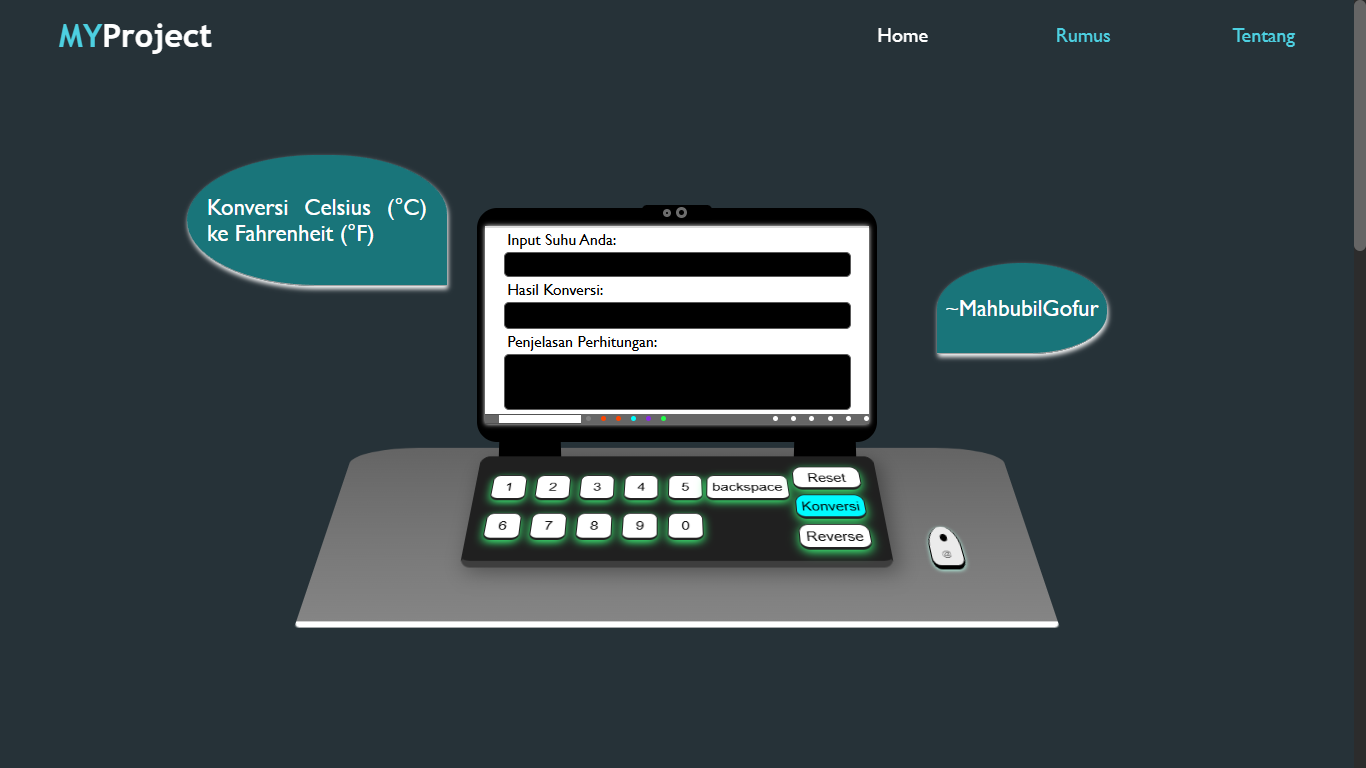
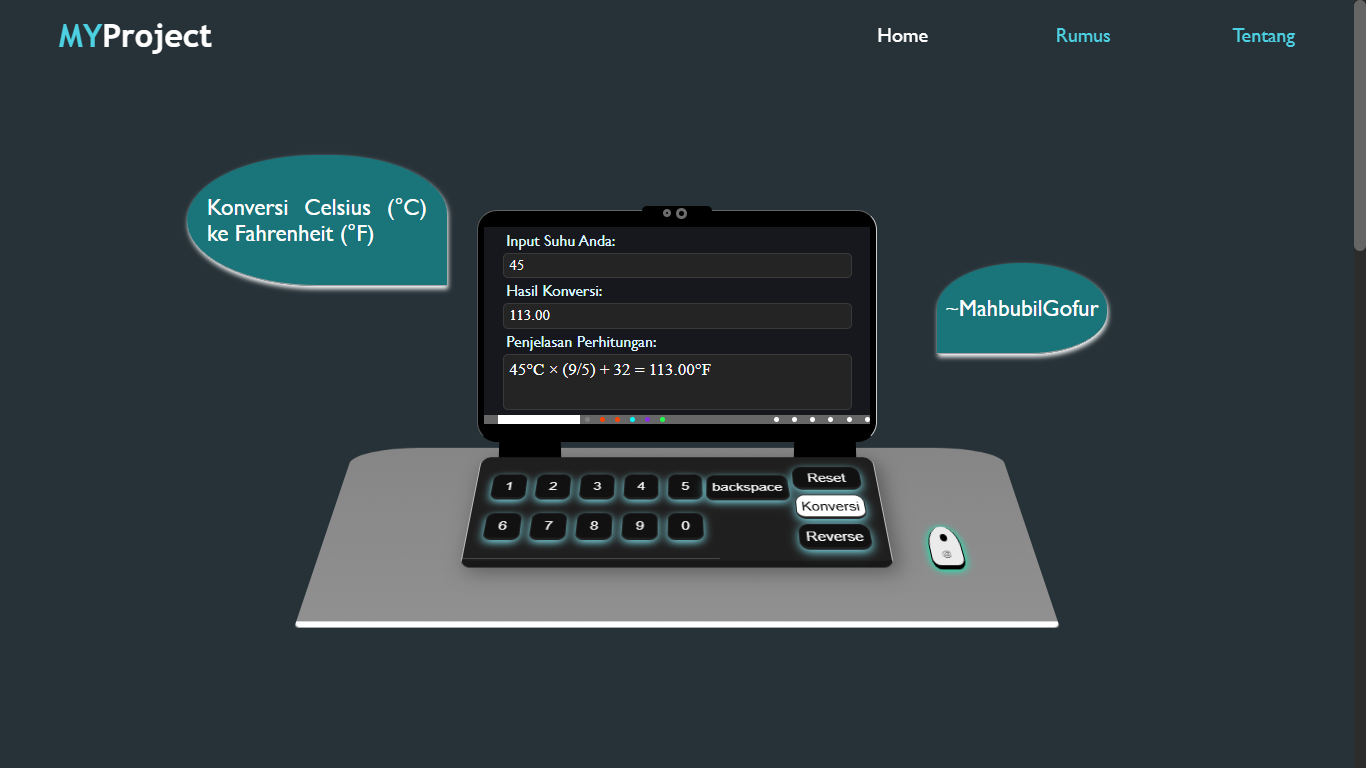
save

Changed region(s): [[0.246, 0.25, 0.7687, 0.75]]

diff --git a/css/style.css b/css/style.css
@@ -263,8 +263,7 @@ main {
   width: 700px;
   height: 200px;
   border-bottom: 6px solid #ffffff;
-  background-color: #a3a3a3;
-  background: linear-gradient(to bottom, #646464, #858585);
+  background: linear-gradient(to bottom, #868686, #909090);
   transform: perspective(600px) rotateX(30deg);
   -webkit-transform: perspective(600px) rotateX(30deg);
   -moz-transform: perspective(600px) rotateX(30deg);
@@ -384,12 +383,12 @@ main {
   justify-content: center;
   align-items: center;
   background-color: rgb(0, 0, 0);
-  border: 2px solid #000000;
   border-radius: 20px;
-  -webkit-border-radius: 20px;
-  -moz-border-radius: 20px;
-  -ms-border-radius: 20px;
-  -o-border-radius: 20px;
+  border: 3px solid rgb(255, 255, 255);
+  border-top: 1px solid rgb(100, 100, 100);
+  border-left: 1px solid rgb(88, 88, 88);
+  border-right: 1px solid rgb(206, 206, 206);
+  border-bottom: 1px solid black;
 }
 
 .bg1-content {
@@ -399,8 +398,7 @@ main {
   justify-content: center;
   align-items: center;
   flex-direction: column;
-  box-shadow: 0 0 5px rgb(255, 255, 255);
-  background-color: rgb(255, 255, 255);
+  background-color: rgb(23, 24, 29);
 }
 /* // */
 /* bg2 */
@@ -416,9 +414,10 @@ main {
   align-items: center;
   border-radius: 10px;
   box-shadow: 5px 5px 20px rgba(0, 0, 0, 0.338);
-  border: 1px solid #202020;
-  border-bottom: 7px solid #3e3e3e;
-  background-color: #202020;
+  border-left: 1px solid #bdbdbd;
+  border-right: 1px solid #bdbdbd;
+  border-bottom: 7px solid #181818;
+  background-color: #201f1f;
   transform: perspective(600px) rotateX(30deg);
   -webkit-transform: perspective(600px) rotateX(30deg);
   -moz-transform: perspective(600px) rotateX(30deg);
@@ -435,6 +434,12 @@ main {
   align-items: center;
   width: 60%;
   height: 95%;
+  border-radius: 2px 0 0 2px;
+  border-bottom: 1px solid #474747;
+  -webkit-border-radius: 2px 0 0 2px;
+  -moz-border-radius: 2px 0 0 2px;
+  -ms-border-radius: 2px 0 0 2px;
+  -o-border-radius: 2px 0 0 2px;
 }
 .b-button {
   position: relative;
@@ -449,10 +454,10 @@ main {
   cursor: pointer;
   margin: 5px;
   font-size: 15px;
-  background-color: rgb(255, 255, 255);
+  background-color: rgb(17, 17, 17);
   border-radius: 8px;
   width: 35px;
-  color: #000000;
+  color: #ffffff;
   height: 35px;
   transform: perspective(600px) rotateX(30deg);
   box-shadow: 0 3px 10px #80deea;
@@ -495,8 +500,8 @@ main {
   display: flex;
   justify-content: center;
   align-items: center;
+  background-color: rgb(17, 17, 17);
   margin-bottom: 45px;
-  background-color: rgb(255, 255, 255);
   border-radius: 8px;
   font-size: 15px;
   width: 100px;
@@ -531,7 +536,7 @@ main {
   -o-transform: perspective(600px) rotateX(20deg) scale(0.93) translateY(2px);
 }
 .delete p {
-  color: #000000;
+  color: #ffffff;
 }
 .delete .dlt {
   display: none;
@@ -545,10 +550,10 @@ main {
   flex-direction: column;
 }
 .button-3 {
-  background-color: rgb(255, 255, 255);
+  background-color: rgb(17, 17, 17);
   margin: 2px;
   font-size: 15px;
-  color: #000000;
+  color: #ffffff;
   border-radius: 30px;
   width: 70px;
   height: 30px;
@@ -610,7 +615,6 @@ main {
   display: flex;
   justify-content: center;
   align-items: center;
-  background-color: rgb(220, 220, 220);
 }
 .layar-mid {
   width: 100%;
@@ -631,6 +635,7 @@ main {
   margin-bottom: 5px;
 }
 .input label {
+  color: rgb(218, 246, 255);
   font-family: "Gill Sans", "Gill Sans MT", Calibri, "Trebuchet MS", sans-serif;
   margin: 3px;
 }
@@ -641,8 +646,8 @@ main {
   height: 7%;
   font-size: 15px;
   color: rgb(255, 255, 255);
-  border: 1px solid rgb(90, 90, 90);
-  background-color: #000000;
+  border: 1px solid rgb(58, 58, 58);
+  background-color: #242424;
   border-radius: 5px;
   -webkit-border-radius: 5px;
   -moz-border-radius: 5px;
@@ -657,8 +662,8 @@ main {
   height: 8%;
   font-size: 15px;
   color: rgb(255, 255, 255);
-  border: 1px solid rgb(90, 90, 90);
-  background-color: #000000;
+  border: 1px solid rgb(58, 58, 58);
+  background-color: #242424;
   border-radius: 5px;
 }
 #penjelasan {
@@ -668,8 +673,8 @@ main {
   height: 100%;
   font-size: 17px;
   color: rgb(255, 255, 255);
-  border: 1px solid rgb(90, 90, 90);
-  background-color: #000000;
+  border: 1px solid rgb(58, 58, 58);
+  background-color: #242424;
   border-radius: 5px;
   resize: none;
 }
@@ -680,7 +685,7 @@ main {
   display: flex;
   justify-content: center;
   align-items: center;
-  background-color: #000000ad;
+  background-color: #242424;
 }
 .li-a {
   width: 25%;

diff --git a/index.html b/index.html
@@ -113,7 +113,7 @@
           </div>
           <div class="c-right">
             <button class="button-3" id="Reset">Reset</button>
-            <button class="button-3" id="Konversi" style=" background-color: rgb(0, 251, 255); color: rgb(0, 0, 0);">Konversi</button>
+            <button class="button-3" id="Konversi" style=" background-color: rgb(255, 255, 255); color: rgb(0, 0, 0);">Konversi</button>
             <button class="button-3" id="Reverse">Reverse</button>        
           </div>
         </div>
